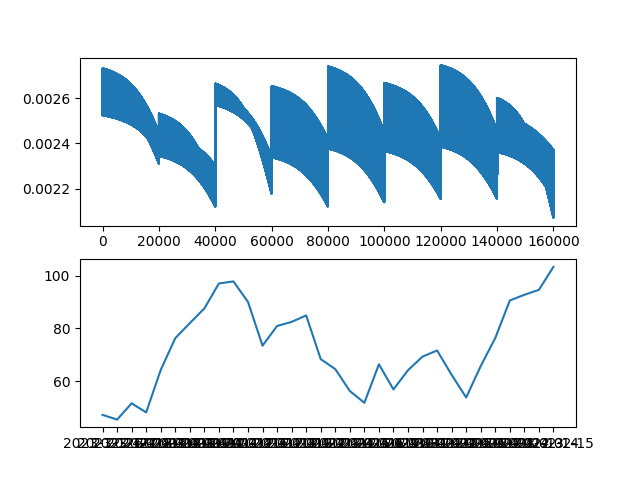
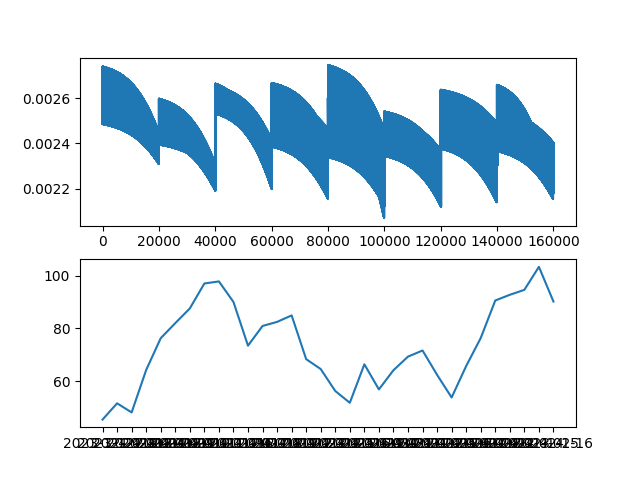
feat(visualization): enhance plot readability and update README for clarity
- Improved the readability of plots by adjusting figure sizes, marker sizes, and adding minor grid lines in `plot-multi.py` and `plot-single.py`.
- Modified date formatting in plots to display month and day for better legibility.
- Updated README instructions for running scripts, installation steps, and optional installs to be more concise and clear.
- Removed outdated links and instructions, providing a streamlined setup process.
- Adjusted logging format in `pbatch.log`, including more detailed performance metrics over an extended period.
- Updated visualization images (`plot-multi.png`, `plot-py.png`, `plot-single.png`) to reflect the new plotting enhancements.

These changes aim to make the project documentation more user-friendly and improve the visual presentation of data analysis results.

diff --git a/util/plot-multi.py b/util/plot-multi.py
@@ -1,6 +1,7 @@
 import re
 import datetime
 import matplotlib.pyplot as plt
+from matplotlib.ticker import AutoMinorLocator
 
 file_paths = ["./result/main-batch.log", "./result/sakata-batch.log"]
 norm_values_list = []
@@ -23,7 +24,8 @@ for file_path in file_paths:
             if date_match:
                 date_str = date_match.group()
                 date = datetime.datetime.strptime(date_str, "%Y-%m-%d").date()
-                dates.append(date)
+                # dates.append(date)
+                dates.append(date.strftime("%b%d"))
                 break
 
         norm_line = [line for line in lines if line.startswith("Norm:")]
@@ -33,12 +35,23 @@ for file_path in file_paths:
 
     norm_values_list.append(norm_values)
 
-plt.figure(figsize=(10, 6))
+plt.figure(figsize=(14, 7))
 for norm_values in norm_values_list:
-    plt.plot(dates, norm_values, marker="o")
-plt.title("The Sakata Index")
-# plt.xticks(rotation=45)
+    plt.plot(dates, norm_values, marker="o", markersize=4)
+
+# X軸の範囲を調整
+if dates:
+    plt.xlim([dates[0], dates[-1]])
+# Y軸の補助メモリを2ずつに設定
+# plt.minorticks_on()
+plt.gca().yaxis.set_minor_locator(AutoMinorLocator(2))
+
+# 主目盛線の太さを設定
+# plt.tick_params(axis="both", which="major", width=2)  # X軸とY軸の主目盛線の太さを2に設定
+
+plt.title("The Sakata Index", fontsize=10)
+plt.xticks(fontsize=8)  # X軸の目盛りのフォントサイズを8に設定
+plt.grid(which="both")
 plt.tight_layout()
-plt.grid()
 plt.savefig("./result/plot-multi.png")  # showの前でないと保存されない
 plt.show()

diff --git a/util/plot-single.py b/util/plot-single.py
@@ -1,6 +1,7 @@
 import re
 import datetime
 import matplotlib.pyplot as plt
+from matplotlib.ticker import AutoMinorLocator
 
 # ファイルを読み込む
 file_path = "./result/main-batch.log"
@@ -42,11 +43,19 @@ for section in sections:
         norm_values.append(norm_value)
 
 # グラフを描画
-plt.figure(figsize=(15, 8))
-plt.plot(dates, norm_values, marker="o")
+plt.figure(figsize=(14, 7))
+plt.plot(dates, norm_values, marker="o", markersize=4)
+
+# X軸の範囲を調整
+if dates:
+    plt.xlim([dates[0], dates[-1]])
+# Y軸の補助メモリを2ずつに設定
+# plt.minorticks_on()
+plt.gca().yaxis.set_minor_locator(AutoMinorLocator(2))
+
 plt.title("The Sakata Index", fontsize=10)
-plt.xticks(fontsize=8)  # X軸の目盛りのフォントサイズを8に設定
-plt.grid()
+plt.xticks(fontsize=9)  # X軸の目盛りのフォントサイズを8に設定
+plt.grid(which="both")
 plt.tight_layout()
 plt.savefig("./result/plot-single.png")  # showの前でないと機能しない
 plt.show()

diff --git a/README.md b/README.md
@@ -34,25 +34,28 @@ To use this program, follow these steps:
    - Node.js 16
 
 2. **Install packages**:
-   - `pip install -r requirements.txt` to install Python dependencies.
-   - `npm install --omit=dev` to install Node.js dependencies without the development packages.
+   - `pip install -r requirements.txt`
+   - `npm install --omit=dev`
 
 3. **Run scripts**:
-   - `npm run cooking` to presumably prepare the data.
-   - `npm run main` to run main.js and append the results.
-   - `npm run plot-single` to visualize the results.
+   - `npm run cooking`  
+   Normalize raw data and split by batch size.
+   - `npm run main`  
+   To run main.js and append the results.
+   - `npm run plot-single`  
+   To visualize the results.
 
 **Optional install**
    - MinGW-w64: For users who want to use GCC with MinGW.  
       [This link](https://code.visualstudio.com/docs/cpp/config-mingw) is provided for setting up MinGW. However, due to an error with "The file has been downloaded incorrectly" [another link](https://winlibs.com/) is recommended.  
-      - Compile: `gcc -O2 cdevice.c -lm`  
-      - Execute: `a.exe` or `./a.out`  
+      - `gcc -O2 cdevice.c -lm`  
+      - `a.exe` or `./a.out`  
 
    - brain.js: A GPU accelerated library for Neural Networks written in JavaScript.  
-      Installation takes approximately 15 minutes on Raspberry Pi 4.  
       - `npm install --no-audit`  
+      On a Raspberry Pi 4, installation typically takes about 15 minutes.  
+      - `npm run sakata`  
       To run npm script which depend on brain.js.
-      - `npm run sakata` 
 
 # Note
 
